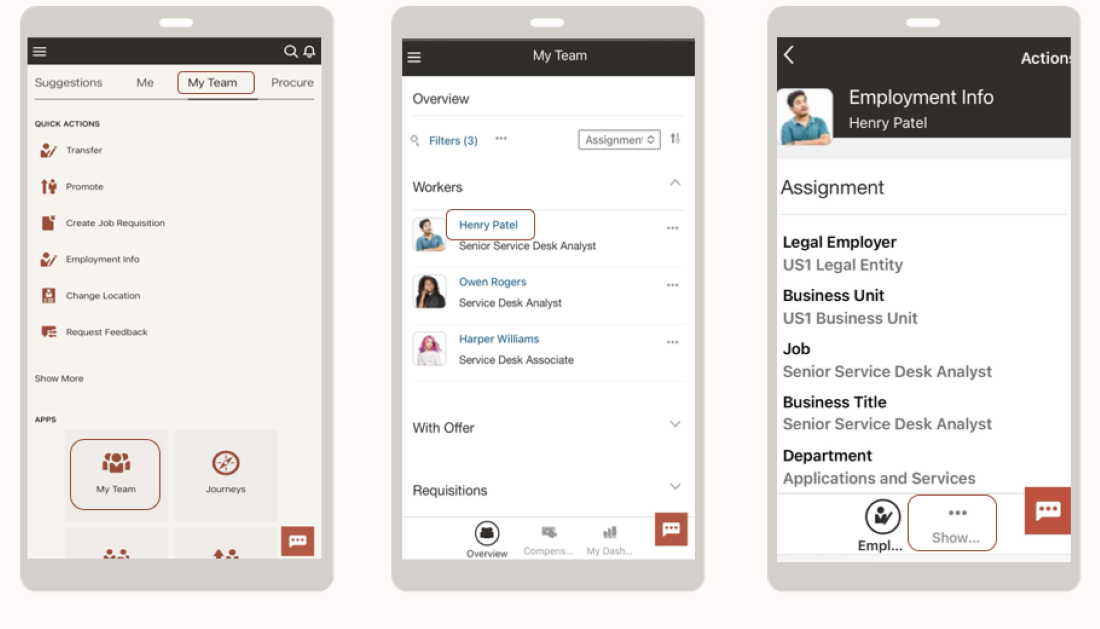
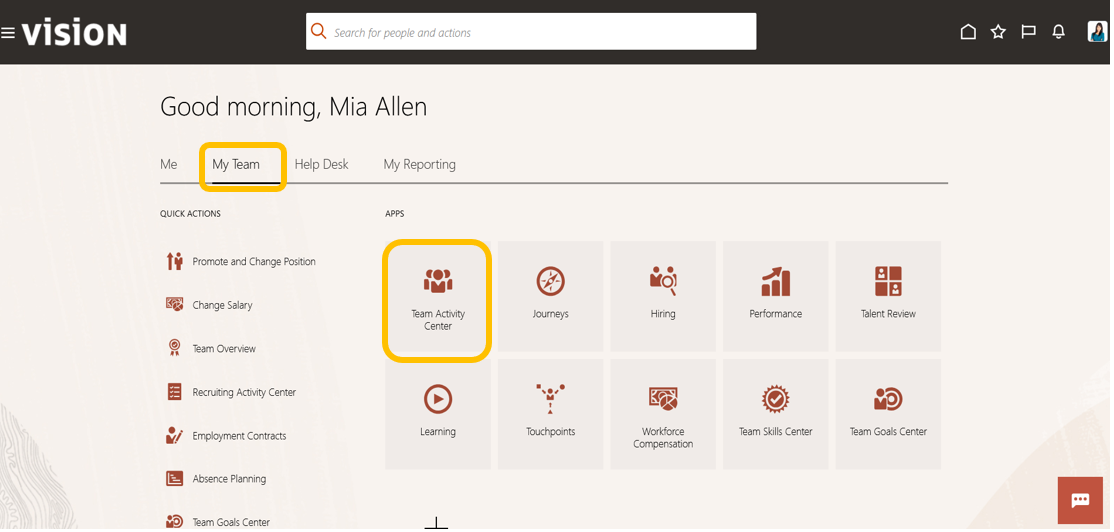
Additional changes for HCM Cloud Adventure WS 11521 (#397)
* HCM CA changes V1

Changes to HCM Cloud Adventure

* Update Changes to lab and manifest

Update Changes to lab and manifest

* Changes to CA live labs

Changes to CA live labs

* Changes to Live Labs

Changes to live labs

* Syncing Branches

Syncing Branches

* Cloud Adventure line change

Cloud Adventure line change

* Changes for LA Cloud Adventure

Changes for LA Cloud Adventure

* Additional Changes for CA

Additional Changes for CA

---------

diff --git a/apps-cloud-adventure-hcm/05-your-team-page/your-team.md b/apps-cloud-adventure-hcm/05-your-team-page/your-team.md
@@ -11,57 +11,60 @@ Estimated Time: 10 minutes
 
 
 In this activity, you will:
-* View the my team page for managers and explore various possible actions. 
+* View the Team Activity Center for managers and explore the various actions that can be taken for an employee. 
 
 
 
 ## Task 1: Your Team 
 
 
-1. The **My Team** page allows managers to have a quick and simple view of their direct reports. 
+1. The **Team Activity Center**gives managers the most critical insights, alerts, and tasks for their team as well as the tools to act on them at their fingertips. 
 
 
-    > Navigate to **My Team** – **My Team**
+    > Navigate to **My Team** – **Team Activity Center** 
 
 
     ![My Team](images\myteampage.png)
 
-2. Click on a workers' name to explore the 360 degree view of an employee.
+2. Click on a workers' name.
 
-3. Select **show more** to open the various compartments of an employee's master file
+3. Select **View more** to open the various tasks that a manager can orchestrate directly from this all in one page. Explore the tasks that are available.
 
-4. Scroll across the bottom of your screen to view specific components i.e. Employment information, Goals, Skills, Performance, etc. 
-
-5. End your navigation on the Employment Tab. **Do not leave the screen**
+    ![My Team](images\myteampage2.png)
 
 Move to **Task 2 of Lab 6: Your Team Page** in your **Cloud Adventure Activity Guide**
 
 
 ## Task 2: Promote 
-Let's process a promotion for the employee. Continue working from the Employment Tab.
+Let's process a promotion for the employee. Continue working from the Team Activity Center. *(If you ventured off.  Navigation = My Team -> Team Activity Center)*
 
+1. Click the** 3 dots** at the right.
 
-![Compensation](images\myteamcompensationpage.png)
+2. Select **View more** from the available list of actions.
 
-1. Click **Actions** at the top right.
+    ![My Team](images\myteampage2.png)
 
-2. Scroll and select **Promote** from the available list of actions. 
+3. Type **Promote** in the search bar. Click **Promote**
 
-3. Click Continue without Journey
+    ![My Team](images\myteampage3.png)
 
-4. Under the question **What info do you want to manage** - click Salary and then click continue
+4. Under the question **‘Info to include’** - Toggle the Salary button and then click **continue**
 
-5. Click **Continue**. *Note: If you were performing this transaction for your organization you would add an effective date.*
+    ![My Team](images\myteampage4.png)
 
+5. In the when and why section Enter **today's date** as the effective date for the promotion *(The what's the way to promote reason will auto populate)* and Click **Continue**. 
 
-![Compensation](images\myteamcompensationpage2.png)
+6. In the Position override section DO NOT MAKE ANY CHANGES.  Click **Continue**.
 
+7. In the Assignment section **DO NOT MAKE ANY CHANGES**  Click **Continue**.
 
-6. In the next section of the transaction labeled *2 Promotion*, do not change any information. Please click the Continue Button to move forward with the transaction.  
+    ![Compensation](images\myteamcompensationpage2.png)
 
-7. Enter a salary adjustment amount or adjustment percent *(to see an example of the guardrails for entry - enter a salary adjustment greater than 60%)*
+8. In the next section of the transaction labeled *2 Promotion*, do not change any information. Please click the Continue Button to move forward with the transaction.  
 
-8. To complete the transaction Click **Submit**
+9. In the Salary secion Enter a salary adjustment amount or adjustment percent *(to see an example of the guardrails for entry - enter a salary adjustment greater than 60%)*
+
+10. To complete the transaction Click **Submit**
 
 **Congratulations you just promoted your employee!**
 
@@ -79,4 +82,4 @@ Adventure awaits, show what you know, and rise to the top of the leader board!!!
 ## Acknowledgements
 * **Author** - Dorcas Conyers, Principal Sales Consultant
 * **Contributors** -  Dorcas Conyers, Principal Sales Consultant
-* **Last Updated By/Date** - Dorcas Conyers, March 2024
+* **Last Updated By/Date** - Dorcas Conyers, August 2024

diff --git a/apps-cloud-adventure-hcm/02-connections/connections.md b/apps-cloud-adventure-hcm/02-connections/connections.md
@@ -40,7 +40,7 @@ In this activity, you will:
 ## Task 2:  Absence Request
 
 
-1. Oracle Cloud HCM can handle any type pf absence, to include automating which absences different employees can request/view, based on specific/local rules. This logic also includes accruals and entitlements.
+1. Oracle Cloud HCM can handle any type of absence, to include automating which absences different employees can request/view, based on specific/local rules. This logic also includes accruals and entitlements.
 
 ![Home Page](images/connections4.png)
 
